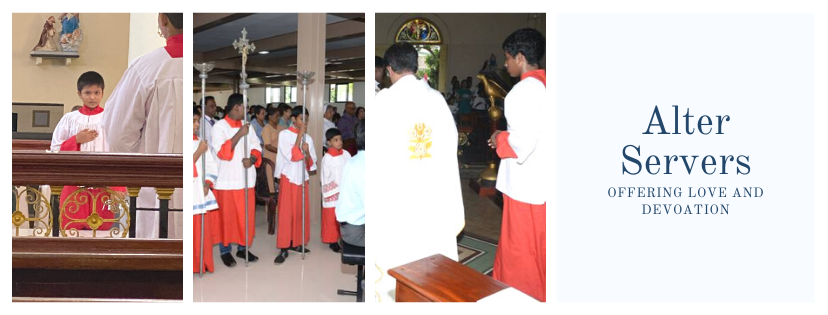
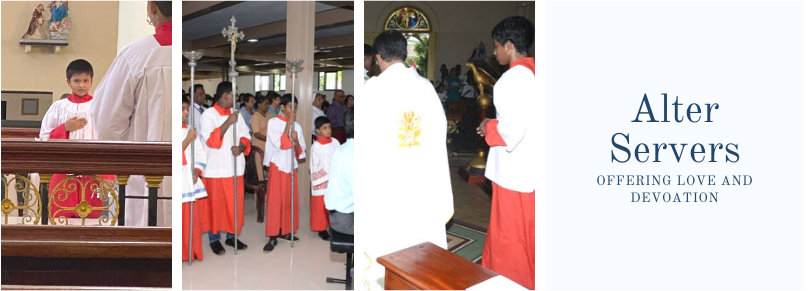
Update images

diff --git a/content/associations/sunday-school/sunday-school.md b/content/associations/sunday-school/sunday-school.md
@@ -4,6 +4,8 @@ description: Sunday School
 date: 2020-04-16T11:00:00.000Z
 ---
 
+![SundaySchool](SundaySchool.png)
+
 **Sunday School was established in 1990.**
 
 Sunday schools in Sri Lanka was initiated by the Catholic mission soon after receiving  independence due to the reason of all the catholic schools were taken under the government and in order to give more emphasys to the religion, the catholic mission initiated Sunday schools at the time of Cardinal Cooray and with the inputs of Rev Fr. D.J. Anthoney.  Then this system was networked through the island via a center of catechism.  Sooner the Buddhists too followed this system as per the history.

diff --git a/content/associations/the-altar-servers-association/the-altar-servers-association.md b/content/associations/the-altar-servers-association/the-altar-servers-association.md
@@ -4,6 +4,8 @@ description: The Altar Servers Association
 date: 2020-04-16T11:00:00.000Z
 ---
 
+![AlterServers](AlterServers.png)
+
 “Alter Server” name comes from the Latin word “ministrare” means ‘’to serve’’. Their role is recognized by the Conciliar Constitution as an integral part of the liturgy office, and as such demands, conduct and behavior from those who serve that is in keeping with its obligations.  St. Mary’s Parish is giving a solemn concentration towards developing liturgically trained Alter Servers and they are selected from the Sunday school of the children those who have received the Holy Communion Sacrament. 
 
 
